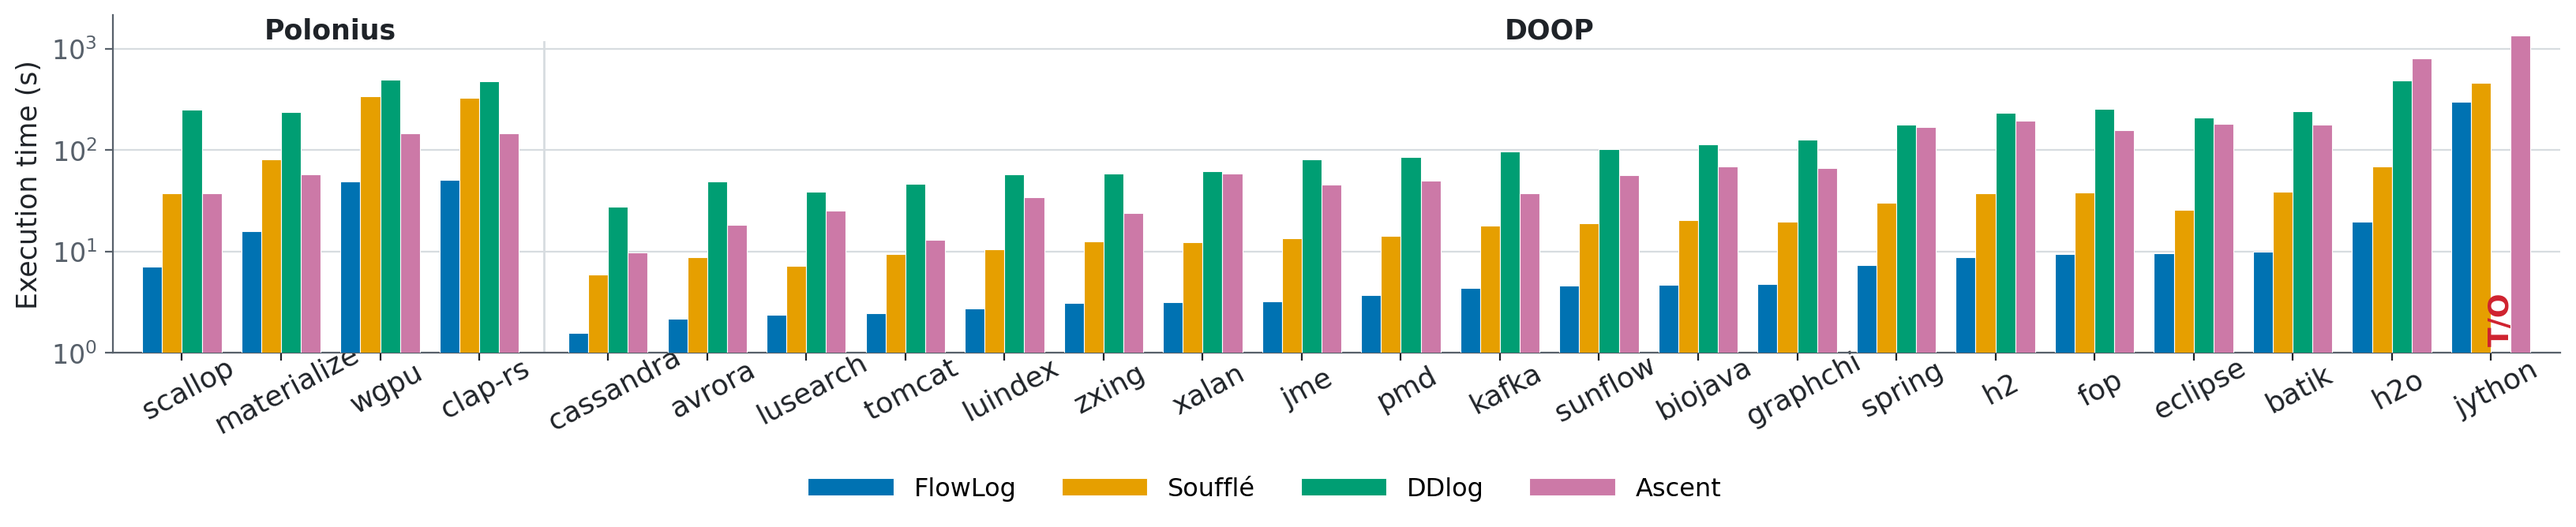
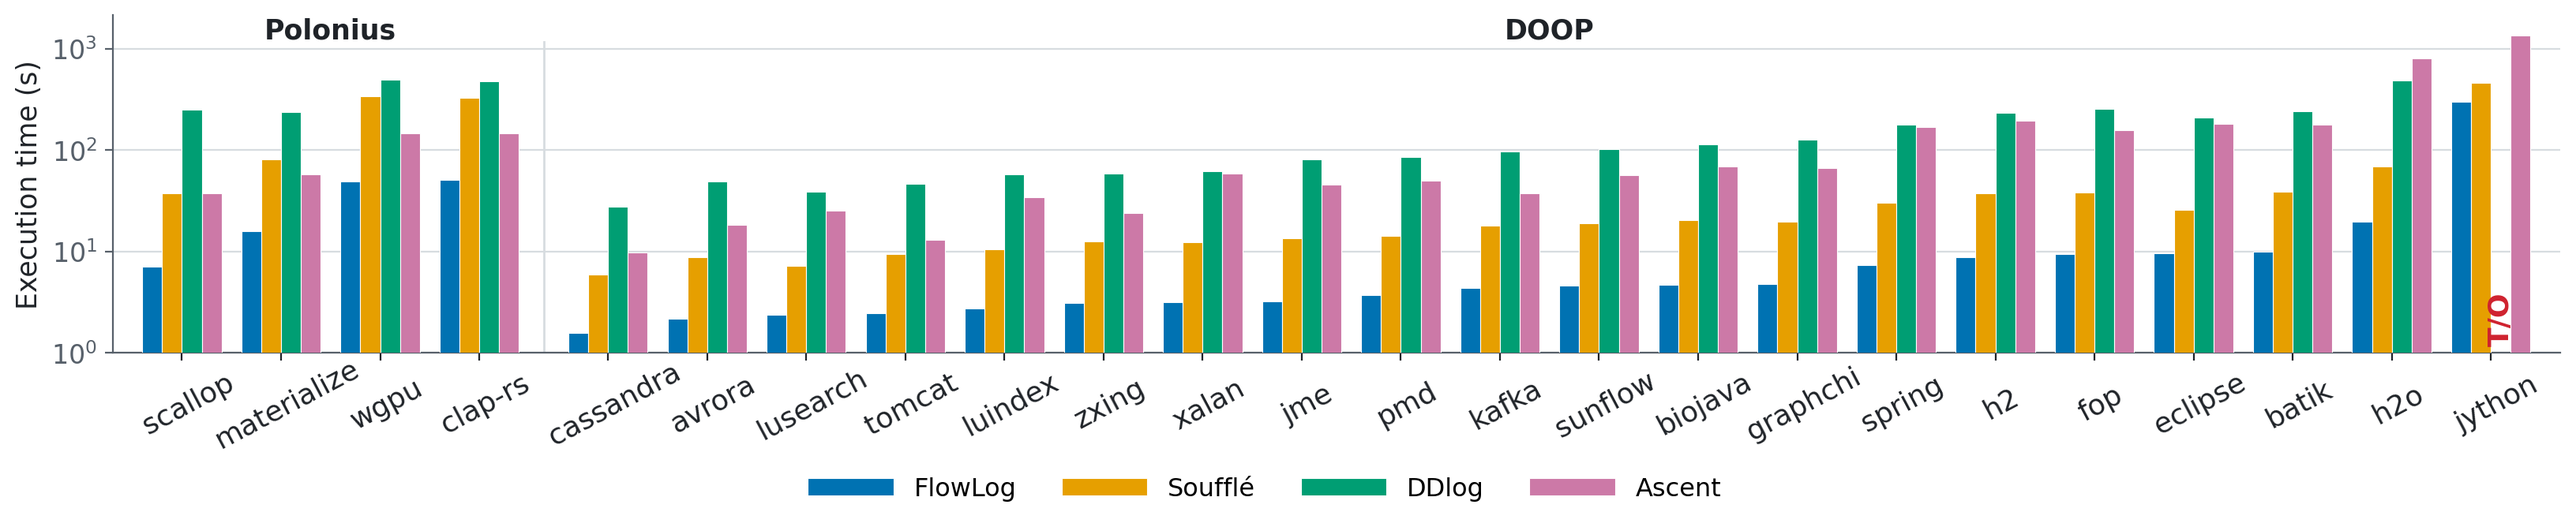
Add clearance between x-axis and the dataset labels
Anchored rotation seated the labels against the axis; push them down
~11pt for breathing room.

Changed region(s): [[0.0619, 0.6587, 0.9905, 0.8383]]

diff --git a/plot/plot_paper.py b/plot/plot_paper.py
@@ -174,7 +174,7 @@ def render(groups, stem, width, annotate):
     # rather than anchoring the label's end at the tick.
     ax.set_xticklabels(labels, rotation=28, ha="center", fontsize=xfs,
                        rotation_mode="anchor")
-    shift = ScaledTranslation(0, -4 / 72, fig.dpi_scale_trans)
+    shift = ScaledTranslation(0, -11 / 72, fig.dpi_scale_trans)
     for lab in ax.get_xticklabels():
         lab.set_transform(lab.get_transform() + shift)
 
